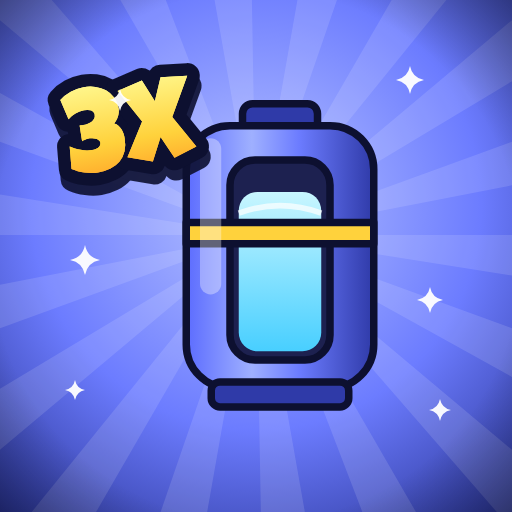
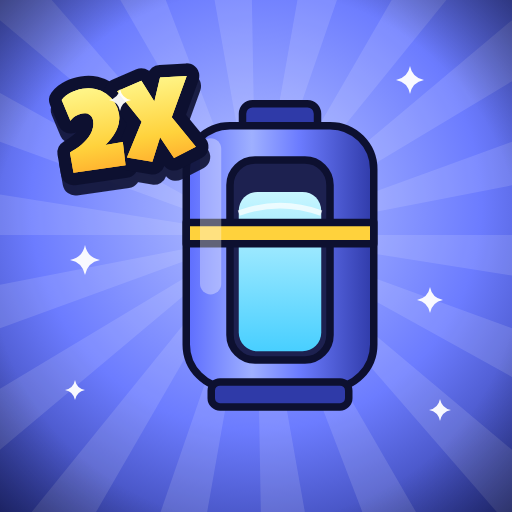
Make Mega Tank a 2x tank pass, as in the design
Claude-Session: https://claude.ai/code/session_01X6pGHfvTm7U1EwdDC9ZDhh

diff --git a/assets/source/badge.html b/assets/source/badge.html
@@ -164,7 +164,7 @@
 
   D.MegaTank = () => ({
     bg: ["#b8c4ff", "#6c7cff", "#26308f"],
-    art: tank(560, 520, 1.25, 0.85) + tag(270, 330, "3X", 230, { rot: -10 }),
+    art: tank(560, 520, 1.25, 0.85) + tag(270, 330, "2X", 230, { rot: -10 }),
     sparkles: true,
   });
 
